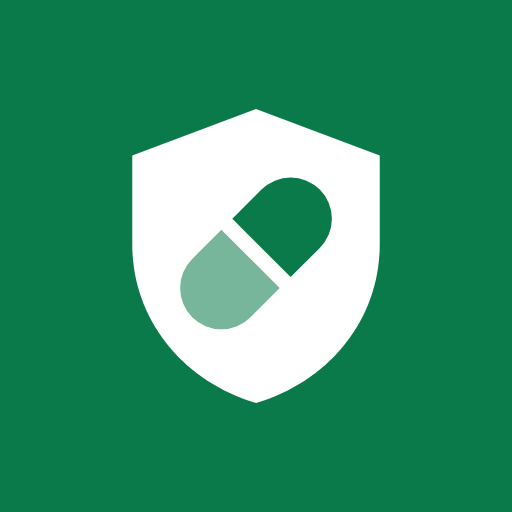
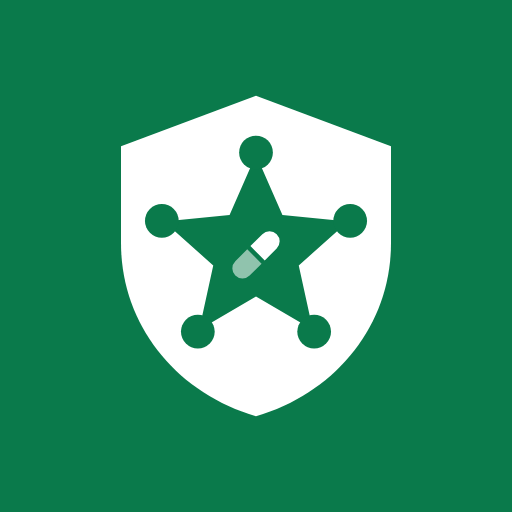
design: Hack Western touches: sheriff's-star badge on the shield, slab wordmark, leather tan, horseshoe seams and a horse on the landing (Trail #64)
- Mark: our shield carrying a five-point ball-tipped sheriff's star (rules in code are
  the law) with the capsule; favicon, apple and 512 icons, logos, social preview.
- Wordmark: Alfa Slab One (OFL), outlined into <Wordmark/>, so no slab font loads.
- Landing only: leather tan token, stitched dividers with a horseshoe, a hoofprint trail
  on the steps, a line-drawn horse and 'Built at Hack Western 13' in the footer.
- Dashboard stays plain: a star icon for the Safety suite and one empty state line.
- All drawings are ours; nothing from Hack Western's logo, mascot or art.
- BRAND.md: the mark, the wordmark and a Western touches section; README badge.

Entire-Checkpoint: 01M80AVJGXZQCKC1X79PJ07AT5

Changed region(s): [[0.2188, 0.1875, 0.7812, 0.8125]]

diff --git a/components/ui/Logo.tsx b/components/ui/Logo.tsx
@@ -1,28 +1,41 @@
 import { cn } from "./cn";
 
-/**
- * The Aegis mark: a shield holding a two-tone capsule. It takes its colours from
- * the tokens, so it is green on warm white and bright green on the dark theme.
- */
+// The Aegis mark: our shield carrying a sheriff's star (rules in code are the law), with the
+// two-tone capsule at its centre.
+// It takes its colours from the tokens: green on warm white, bright green on the dark theme.
 export function Mark({ className, title }: { className?: string; title?: string }) {
   return (
     <svg viewBox="0 0 32 32" className={cn("shrink-0", className)} role={title ? "img" : undefined} aria-hidden={title ? undefined : true} aria-label={title}>
       <path fill="var(--rg-accent)" d="M16 1.75 28 6.25v8.6c0 7.3-4.9 13.3-12 15.4C8.9 28.15 4 22.15 4 14.85v-8.6L16 1.75Z" />
-      <g transform="rotate(45 16 15.75)" fill="var(--rg-ink-inverse)">
-        <path d="M12 15v-4a4 4 0 0 1 8 0v4h-8Z" />
-        <path fillOpacity=".55" d="M12 16.5h8v4a4 4 0 0 1-8 0v-4Z" />
+      <g fill="var(--rg-ink-inverse)">
+        <path d="M16.00 7.00 L18.35 12.36 L24.18 12.94 L19.80 16.84 L21.05 22.56 L16.00 19.60 L10.95 22.56 L12.20 16.84 L7.82 12.94 L13.65 12.36Z" />
+        <circle cx="16.0" cy="6.8" r="1.5" /><circle cx="24.37" cy="12.88" r="1.5" /><circle cx="21.17" cy="22.72" r="1.5" /><circle cx="10.83" cy="22.72" r="1.5" /><circle cx="7.63" cy="12.88" r="1.5" />
+      </g>
+      <g transform="rotate(45 16 15.9)" fill="var(--rg-accent)">
+        <path d="M15.1 15.7v-1.5a.9.9 0 0 1 1.8 0v1.5h-1.8Z" />
+        <path fillOpacity=".55" d="M15.1 16.1h1.8v1.5a.9.9 0 0 1-1.8 0v-1.5Z" />
       </g>
     </svg>
   );
 }
 
-/** Mark plus wordmark. Use `size` to scale both together. */
-export function Logo({ size = "md", className }: { size?: "sm" | "md" | "lg"; className?: string }) {
-  const s = { sm: ["size-5", "text-[15px]"], md: ["size-6", "text-[17px]"], lg: ["size-9", "text-2xl"] }[size];
+/** "Aegis" in a Clarendon-style slab (Alfa Slab One, OFL), outlined so it loads no font. */
+export function Wordmark({ className }: { className?: string }) {
   return (
-    <span className={cn("inline-flex items-center gap-2", className)}>
+    <svg viewBox="0 0 76.43 26.07" className={cn("shrink-0 fill-current", className)} role="img" aria-label="Aegis">
+      <path d="M19.07 15.78H20.1V20H10.03V15.78H11.57L11.16 13.73H7.66L7.25 15.78H8.79V20H0V15.78H1.03L5.37 0H14.73ZM8.23 11H10.59L9.54 5.89H9.28ZM21.29 12.85Q21.29 9.18 23.34 7.26Q25.4 5.35 29.05 5.35Q32.67 5.35 34.28 7.24Q35.89 9.13 35.89 11.93V13.78H27.56V13.93Q27.56 14.88 28.12 15.33Q28.69 15.78 30 15.78Q31.57 15.78 32.98 15.55Q34.4 15.32 35.45 14.96V19.07Q34.55 19.56 32.81 19.96Q31.08 20.36 29.05 20.36Q25.4 20.36 23.34 18.44Q21.29 16.53 21.29 12.85ZM30.54 10.95V10.64Q30.54 9.77 30.17 9.38Q29.79 9 29.05 9Q28.3 9 27.93 9.4Q27.56 9.79 27.56 10.64V10.95ZM38.56 25.22V21Q41.29 21.49 43.44 21.49Q44.91 21.49 45.57 21.04Q46.22 20.59 46.22 19.36V18.25Q45.58 19.07 44.56 19.72Q43.55 20.36 42.24 20.36Q39.61 20.36 38.29 18.41Q36.97 16.45 36.97 12.85Q36.97 9.25 38.29 7.3Q39.61 5.35 42.24 5.35Q43.55 5.35 44.56 5.99Q45.58 6.63 46.22 7.46V5.71H53.26V9.92H52.13V18.97Q52.13 22.7 50.28 24.38Q48.43 26.07 44.7 26.07Q42.85 26.07 41.17 25.81Q39.49 25.55 38.56 25.22ZM46.22 14.14V11.57Q46.22 10.72 45.85 10.32Q45.48 9.92 44.73 9.92Q43.98 9.92 43.61 10.32Q43.24 10.72 43.24 11.57V14.14Q43.24 14.99 43.61 15.39Q43.98 15.78 44.73 15.78Q45.48 15.78 45.85 15.39Q46.22 14.99 46.22 14.14ZM55.73 4.29V0H60.98V4.29ZM54.5 20V15.78H55.63V9.92H54.5V5.71H61.54V15.78H62.67V20ZM63.91 19.33V15.53H68.07V15.78Q68.07 17.02 69.64 17.02Q71.03 17.02 71.03 16.07Q71.03 15.55 70.63 15.3Q70.23 15.04 69.23 14.86L67.94 14.63Q63.91 13.91 63.91 10.05Q63.91 7.81 65.6 6.58Q67.3 5.35 70.18 5.35Q73.39 5.35 75.6 6.43V10H71.7V9.74Q71.7 9.23 71.35 8.96Q71 8.69 70.33 8.69Q69.05 8.69 69.05 9.51Q69.05 9.95 69.41 10.18Q69.77 10.41 70.72 10.62L72.19 10.9Q74.47 11.34 75.45 12.52Q76.43 13.7 76.43 15.55Q76.43 17.89 74.79 19.13Q73.16 20.36 70.15 20.36Q66.92 20.36 63.91 19.33Z" />
+    </svg>
+  );
+}
+
+/** Mark plus wordmark. Use size to scale both together. */
+export function Logo({ size = "md", className }: { size?: "sm" | "md" | "lg"; className?: string }) {
+  // The wordmark box includes the g's descender, so it sits a little low to centre the capitals.
+  const s = { sm: ["size-5", "h-[15px] translate-y-[1.5px]"], md: ["size-6", "h-[18px] translate-y-[2px]"], lg: ["size-9", "h-[27px] translate-y-[3px]"] }[size];
+  return (
+    <span className={cn("inline-flex items-center gap-2 text-ink", className)}>
       <Mark className={s[0]} />
-      <span className={cn("font-semibold tracking-[-0.02em] text-ink", s[1])}>Aegis</span>
+      <Wordmark className={s[1]} />
     </span>
   );
 }

diff --git a/app/page.tsx b/app/page.tsx
@@ -4,6 +4,7 @@ import { ButtonLink, Card, Eyebrow, LaneBadge, Logo, Mark, RuleTag, SiteHeader, 
 import { ProductPreview } from "@/components/landing/ProductPreview";
 import { fmt, hammerTotals } from "@/components/landing/hammer";
 import { AuthButton, SignInLink } from "@/components/landing/AuthButton";
+import { BuiltAtHackWestern, HoofTrail, StitchDivider } from "@/components/landing/Western";
 
 const REPO = "https://github.com/nishantshah0/namereserve";
 
@@ -165,14 +166,18 @@ export default function Home() {
         </section>
 
         {/* How it works */}
-        <section id="how" className="scroll-mt-20 border-t border-line">
+        <StitchDivider />
+        <section id="how" className="scroll-mt-20">
           <div className="mx-auto max-w-6xl px-5 py-20 md:px-8 md:py-28">
             <Eyebrow>How it works</Eyebrow>
             <h2 className="mt-3 max-w-2xl text-4xl font-medium tracking-[-0.045em] md:text-6xl">Three steps, one wall the AI can&apos;t talk its way past.</h2>
             <ol className="mt-14 grid gap-10 md:grid-cols-3 md:gap-8">
-              {STEPS.map((s) => (
-                <li key={s.n} className="flex flex-col border-t border-line-strong pt-6">
-                  <span className="font-mono text-sm text-ink-3">{s.n}</span>
+              {STEPS.map((s, i) => (
+                <li key={s.n} className="flex flex-col border-t-2 border-dashed border-tan/40 pt-6">
+                  <span className="flex items-center justify-between">
+                    <span className="font-mono text-sm text-ink-3">{s.n}</span>
+                    {i < STEPS.length - 1 && <HoofTrail className="hidden md:flex" />}
+                  </span>
                   <h3 className="mt-4 text-xl font-semibold tracking-[-0.02em]">{s.title}</h3>
                   <p className="mt-3 text-[15px] leading-relaxed text-ink-2">{s.body}</p>
                   <div className="mt-6">{s.detail}</div>
@@ -183,7 +188,8 @@ export default function Home() {
         </section>
 
         {/* Safety */}
-        <section id="safety" className="scroll-mt-16 border-t border-line">
+        <StitchDivider />
+        <section id="safety" className="scroll-mt-16">
           <div className="mx-auto max-w-6xl px-5 py-20 md:px-8 md:py-28">
             <Eyebrow>Safety</Eyebrow>
             <h2 className="mt-3 max-w-3xl text-4xl font-medium tracking-[-0.045em] md:text-6xl">
@@ -238,7 +244,8 @@ export default function Home() {
         </section>
 
         {/* Numbers */}
-        <section id="numbers" className="scroll-mt-16 border-t border-line">
+        <StitchDivider />
+        <section id="numbers" className="scroll-mt-16">
           <div className="mx-auto max-w-6xl px-5 py-20 md:px-8 md:py-28">
             <div className="flex flex-wrap items-end justify-between gap-6">
               <div>
@@ -269,7 +276,8 @@ export default function Home() {
         </section>
 
         {/* Demo CTA */}
-        <section id="demo" className="scroll-mt-16 border-t border-line">
+        <StitchDivider />
+        <section id="demo" className="scroll-mt-16">
           <div className="mx-auto max-w-6xl px-5 py-20 md:px-8 md:py-28">
             <Eyebrow>The demo</Eyebrow>
             <h2 className="mt-3 text-4xl font-medium tracking-[-0.045em] md:text-6xl">See it take a call.</h2>
@@ -297,13 +305,15 @@ export default function Home() {
         </section>
       </main>
 
-      <footer className="border-t border-line">
+      <StitchDivider />
+      <footer>
         <div className="mx-auto flex max-w-6xl flex-col gap-8 px-5 py-12 md:flex-row md:items-start md:justify-between md:px-8">
           <div className="max-w-sm">
             <Logo />
             <p className="mt-4 text-sm leading-relaxed text-ink-3">
               A team project for Hack Western 13. Demo data only: no real patients, and not for clinical use.
             </p>
+            <BuiltAtHackWestern className="mt-5" />
           </div>
           <nav aria-label="Footer" className="flex gap-12 text-sm">
             <ul className="space-y-2.5">

diff --git a/components/landing/Western.tsx b/components/landing/Western.tsx
@@ -1,0 +1,65 @@
+import { cn } from "@/components/ui";
+
+// Hack Western touches for the landing page: our own drawings, in the leather tan.
+// Decoration only (aria-hidden), never in the dashboard.
+
+/** A horseshoe, open end up, with nail holes cut out of the canvas colour. */
+export function Horseshoe({ className }: { className?: string }) {
+  return (
+    <svg viewBox="0 0 24 24" className={cn("shrink-0", className)} aria-hidden>
+      <path fill="currentColor" d="M4.5 3.5h3.6v8.2a3.9 3.9 0 0 0 7.8 0V3.5h3.6v8.2a7.5 7.5 0 0 1-15 0V3.5Z" />
+      <g fill="var(--rg-canvas)">
+        <circle cx="6.3" cy="7" r=".7" />
+        <circle cx="6.6" cy="11" r=".7" />
+        <circle cx="17.7" cy="7" r=".7" />
+        <circle cx="17.4" cy="11" r=".7" />
+        <circle cx="9" cy="16.1" r=".7" />
+        <circle cx="15" cy="16.1" r=".7" />
+      </g>
+    </svg>
+  );
+}
+
+/** A line-drawn horse's head in profile. */
+export function HorseHead({ className }: { className?: string }) {
+  return (
+    <svg viewBox="0 0 48 48" className={cn("shrink-0", className)} fill="none" stroke="currentColor" strokeWidth="2.2" strokeLinecap="round" strokeLinejoin="round" aria-hidden>
+      <path d="M38 45C37.5 34 36.5 24 33 15.5L31.5 6 27 12.5C21.5 15.5 15 21.5 10 28.5 7.8 31.6 8.6 35.2 12.2 35.4 15 35.6 17 34 19 32.3 21.8 30.3 24.6 30.6 26.2 33.4 27.8 36.6 27.4 40.6 26.4 45" />
+      <path d="M33 15.5C35.5 18 37.8 22 39.5 27.5M35 14C37.6 16 40 19.5 41.6 24" />
+      <circle cx="23.6" cy="19.6" r="1.2" fill="currentColor" stroke="none" />
+      <path d="M11.4 31.2c.6-.5 1.4-.6 2-.2" />
+    </svg>
+  );
+}
+
+/** A stitched leather seam with a horseshoe in the middle, between landing sections. */
+export function StitchDivider({ className }: { className?: string }) {
+  return (
+    <div className={cn("mx-auto flex w-full max-w-6xl items-center gap-4 px-5 text-tan md:px-8", className)} aria-hidden>
+      <span className="h-0 flex-1 border-t-2 border-dashed border-tan/45" />
+      <Horseshoe className="size-5" />
+      <span className="h-0 flex-1 border-t-2 border-dashed border-tan/45" />
+    </div>
+  );
+}
+
+/** A short trail of hoofprints, leading on to the next step. */
+export function HoofTrail({ className }: { className?: string }) {
+  return (
+    <span className={cn("flex items-center gap-1.5 text-tan/70", className)} aria-hidden>
+      <Horseshoe className="size-3.5 -rotate-90" />
+      <Horseshoe className="size-3.5 -translate-y-1.5 -rotate-90" />
+      <Horseshoe className="size-3.5 -rotate-90" />
+    </span>
+  );
+}
+
+/** "Built at Hack Western 13", with the horse. */
+export function BuiltAtHackWestern({ className }: { className?: string }) {
+  return (
+    <span className={cn("inline-flex items-center gap-2 rounded-full border border-tan/40 px-3 py-1 text-[13px] font-medium text-tan", className)}>
+      <HorseHead className="size-5" />
+      Built at Hack Western 13
+    </span>
+  );
+}

diff --git a/app/app/page.tsx b/app/app/page.tsx
@@ -38,7 +38,7 @@ async function Pharmacy() {
         <div className="flex items-center justify-between border-b border-line px-5 py-4">
           <div>
             <p className="font-semibold">Needs a pharmacist now</p>
-            <p className="text-sm text-ink-3">{open.length === 0 ? "Nothing waiting." : `${open.length} waiting, Review first.`}</p>
+            <p className="text-sm text-ink-3">{open.length === 0 ? "Nothing waiting. The herd's all set." : `${open.length} waiting, Review first.`}</p>
           </div>
           <Link href="/app/pharmacy/today" className={buttonClass(open.length ? "primary" : "secondary", "sm")}>
             Open Today
@@ -77,7 +77,7 @@ async function Safety() {
     <div className="theme-dark theme-safety rounded-card border border-line bg-canvas p-5 text-ink">
       <div className="flex items-center justify-between">
         <p className="flex items-center gap-2 font-semibold">
-          <Icon name="gate" className="size-[18px] text-accent" /> Safety suite
+          <Icon name="badge" className="size-[18px] text-accent" /> Safety suite
         </p>
         <Link href="/app/safety/overnight" className="text-sm text-ink-2 hover:text-ink">
           Details →

diff --git a/app/globals.css b/app/globals.css
@@ -37,6 +37,8 @@
   --rg-stop: #b42318;
   --rg-stop-soft: #fbe9e7;
 
+  /* Leather tan: the Western accent, landing page and brand art only (never in the dashboard). */
+  --rg-tan: #8a5a2b;
   --rg-focus: #0a7a4b;
   --rg-shadow: 0 1px 2px rgb(12 15 14 / 0.04), 0 8px 24px -12px rgb(12 15 14 / 0.12);
 }
@@ -69,6 +71,7 @@
   --rg-stop: #ff6b5e;
   --rg-stop-soft: rgb(255 107 94 / 0.14);
 
+  --rg-tan: #d4a373;
   --rg-focus: #3ddc97;
   --rg-shadow: 0 1px 0 rgb(255 255 255 / 0.03) inset, 0 12px 32px -16px rgb(0 0 0 / 0.6);
   color-scheme: dark;
@@ -114,6 +117,7 @@
   --color-review-soft: var(--rg-review-soft);
   --color-stop: var(--rg-stop);
   --color-stop-soft: var(--rg-stop-soft);
+  --color-tan: var(--rg-tan);
 
   --font-sans: var(--font-inter), ui-sans-serif, system-ui, sans-serif;
   --font-mono: var(--font-geist-mono), ui-monospace, "SF Mono", Menlo, monospace;

diff --git a/app/app/_shell/Icon.tsx b/app/app/_shell/Icon.tsx
@@ -6,6 +6,7 @@ const PATHS: Record<IconName, string> = {
   today: "M4 4.5h12a1 1 0 0 1 1 1V16a1 1 0 0 1-1 1H4a1 1 0 0 1-1-1V5.5a1 1 0 0 1 1-1ZM3 8h14M7 2.5v3M13 2.5v3M7.5 12l2 2 3.5-4",
   calendar: "M4 4.5h12a1 1 0 0 1 1 1V16a1 1 0 0 1-1 1H4a1 1 0 0 1-1-1V5.5a1 1 0 0 1 1-1ZM3 8h14M7 2.5v3M13 2.5v3M6.5 11h1M9.5 11h1M12.5 11h1M6.5 14h1M9.5 14h1",
   outreach: "M3 10h3l1.5-3 3 6 1.5-3h5M14 4.5l2.5 2-2.5 2",
+  badge: "M10.0 2.8 L12.1 7.7 L17.4 8.2 L13.4 11.7 L14.6 16.9 L10.0 14.2 L5.4 16.9 L6.6 11.7 L2.6 8.2 L7.9 7.7Z",
   calls: "M5.5 3h2.2l1.1 3.3-1.6 1.1a9 9 0 0 0 5.4 5.4l1.1-1.6 3.3 1.1v2.2A1.5 1.5 0 0 1 15.5 16 12.5 12.5 0 0 1 4 4.5 1.5 1.5 0 0 1 5.5 3Z",
   review: "M4 3.5h9l3 3V16a1 1 0 0 1-1 1H4a1 1 0 0 1-1-1V4.5a1 1 0 0 1 1-1ZM6.5 10l2 2 4-4.5",
   gate: "M2.5 10h3l2-5 3 10 2-5h5",

diff --git a/app/app/_shell/nav.ts b/app/app/_shell/nav.ts
@@ -1,7 +1,7 @@
 // The app's two product areas and their pages. One list drives the sidebar, the area
 // switcher and the overview's quick links.
 
-export type IconName = "home" | "today" | "calendar" | "outreach" | "calls" | "review" | "gate" | "attack" | "flask" | "moon" | "book" | "phone";
+export type IconName = "home" | "today" | "calendar" | "outreach" | "calls" | "review" | "gate" | "attack" | "flask" | "moon" | "book" | "phone" | "badge";
 export type NavItem = { href: string; label: string; icon: IconName; hint: string };
 export type Area = { key: "pharmacy" | "safety"; label: string; short: string; home: string; items: NavItem[] };
 

diff --git a/app/app/_shell/AppFrame.tsx b/app/app/_shell/AppFrame.tsx
@@ -58,7 +58,10 @@ export function AppFrame({ account, children }: { account: ReactNode; children: 
                   area?.key === a.key ? "bg-surface text-ink shadow-card" : "text-ink-2 hover:text-ink",
                 )}
               >
-                {a.short}
+                <span className="inline-flex items-center justify-center gap-1.5">
+                  <Icon name={a.key === "safety" ? "badge" : "calls"} className="size-4" />
+                  {a.short}
+                </span>
               </Link>
             ))}
           </div>

diff --git a/components/ui/index.ts b/components/ui/index.ts
@@ -1,6 +1,6 @@
 // The shared Aegis UI kit. Usage and tokens: docs/BRAND.md.
 export { cn } from "./cn";
-export { Logo, Mark } from "./Logo";
+export { Logo, Mark, Wordmark } from "./Logo";
 export { Button, ButtonLink, buttonClass } from "./Button";
 export { Card, Eyebrow } from "./Card";
 export { Badge, LaneBadge, RuleTag, LANE_LABEL, LANE_TONE, type Lane, type Tone } from "./Badge";

diff --git a/docs/BRAND.md b/docs/BRAND.md
@@ -14,12 +14,12 @@ Calm, precise, clinical but warm. The site leads dark, like the products we meas
 | `public/brand/mark-dark.svg` | The mark on near-black (the stage, the phone, dark slides). |
 | `public/brand/logo.svg` | Mark plus wordmark, on light backgrounds. Text is outlined, so it renders the same everywhere (README, slides). |
 | `public/brand/logo-dark.svg` | Mark plus wordmark, on near-black. |
-| `public/brand/wordmark.svg` | The words alone, for tight spaces where the mark already appears. |
+| `public/brand/wordmark.svg` | The word alone, for tight spaces where the mark already appears. Set in Alfa Slab One (SIL Open Font License), a Clarendon-style slab, and outlined. |
 | `public/brand/icon-512.png` | Square app icon (white mark on green), for slides and Devpost. |
 | `public/brand/social-preview.png` | 1280×640 GitHub and link preview. |
 | `app/icon.svg`, `app/favicon.ico`, `app/apple-icon.png` | Browser and home-screen icons (Next.js file conventions). |
 
-**The mark** is a shield holding a two-tone capsule: the pharmacy (the capsule) inside rules it can't get out of (the shield). In code, use `<Mark />` or `<Logo />` from `components/ui`: they take their colours from the tokens, so they switch with the theme.
+**The mark** is our shield carrying a five-point sheriff's star with ball tips, with the two-tone capsule at its centre: the pharmacy (the capsule) under rules that are the law (the star), inside rules it can't get out of (the shield). The star is our nod to Hack Western, where Aegis was built; it is our own drawing, not Hack Western's logo or art. In code, use `<Mark />` or `<Logo />` from `components/ui`: they take their colours from the tokens, so they switch with the theme.
 
 - Clear space around the logo: at least the mark's width on every side.
 - Minimum size: mark 16 px, full logo 96 px wide.
@@ -50,6 +50,15 @@ Each of `accent`, `quick`, `review` and `stop` has a `-soft` tint for badge back
 
 **Light or dark.** The landing page, the stage (a projector) and the patient's phone (a call screen) are dark; the pharmacist console is light, because it's a work tool used all day. Dark screens: wrap them in `theme-dark` (or `<PageShell theme="dark">`) and every token switches.
 
+## Western touches (Hack Western 13)
+
+A nod to where Aegis was built, kept small so it still reads as a health product.
+
+- **Where:** the landing page, the brand art (logo, icons, social preview) and the README. The dashboard stays plain; its only touches are the badge icon for the Safety suite ("the law") and one empty state ("Nothing waiting. The herd's all set.").
+- **Leather tan** (`tan`: `#8A5A2B` light, `#D4A373` dark, both AA): stitched dividers, the hoofprint trail, the "Built at Hack Western 13" tag. Never for buttons, numbers or status.
+- **Drawings** in `components/landing/Western.tsx`, all our own: `Horseshoe`, `HorseHead` (line drawing), `StitchDivider` (a dashed seam with a horseshoe), `HoofTrail`, `BuiltAtHackWestern`.
+- **Don't:** use Hack Western's logo, mascot or artwork, rope fonts, wanted-poster textures, or slab type for body text.
+
 ## Lanes
 
 Always the same name, colour and order. Use `<LaneBadge lane=... />`.
@@ -62,7 +71,7 @@ Always the same name, colour and order. Use `<LaneBadge lane=... />`.
 
 ## Type
 
-**Inter** for everything, loaded once in `app/layout.tsx` (`--font-inter`, Tailwind `font-sans`). **Geist Mono** only for codes, ids, button names and record entries (`font-mono`).
+**Inter** for everything you read, loaded once in `app/layout.tsx` (`--font-inter`, Tailwind `font-sans`). **Geist Mono** only for codes, ids, button names and record entries (`font-mono`). The wordmark is the one slab: it is an outlined SVG (`<Wordmark />`), so no slab font loads and body text stays clean.
 
 | Style | Classes |
 |---|---|

diff --git a/README.md b/README.md
@@ -18,12 +18,12 @@
   <img src="https://img.shields.io/badge/TypeScript-strict-0C0F0E" alt="TypeScript">
   <img src="https://img.shields.io/badge/Claude-agent-0C0F0E" alt="Claude">
   <img src="https://img.shields.io/badge/license-MIT-0C0F0E" alt="MIT license">
-  <img src="https://img.shields.io/badge/Hack_Western-13-0A7A4B" alt="Hack Western 13">
+  <img src="https://img.shields.io/badge/built_at-Hack_Western_13-8A5A2B" alt="Built at Hack Western 13">
 </p>
 
 <p align="center"><img src="docs/images/landing.png" alt="The Aegis landing page: the headline, the patient's call screen and the pharmacist's Review lane" width="900"></p>
 
-<p align="center"><sub>Aegis (formerly Refill Guard) · Hack Western 13 · demo data only, no real patients</sub></p>
+<p align="center"><sub>Aegis (formerly Refill Guard) · Built at Hack Western 13 · demo data only, no real patients</sub></p>
 
 ## How it works
 
